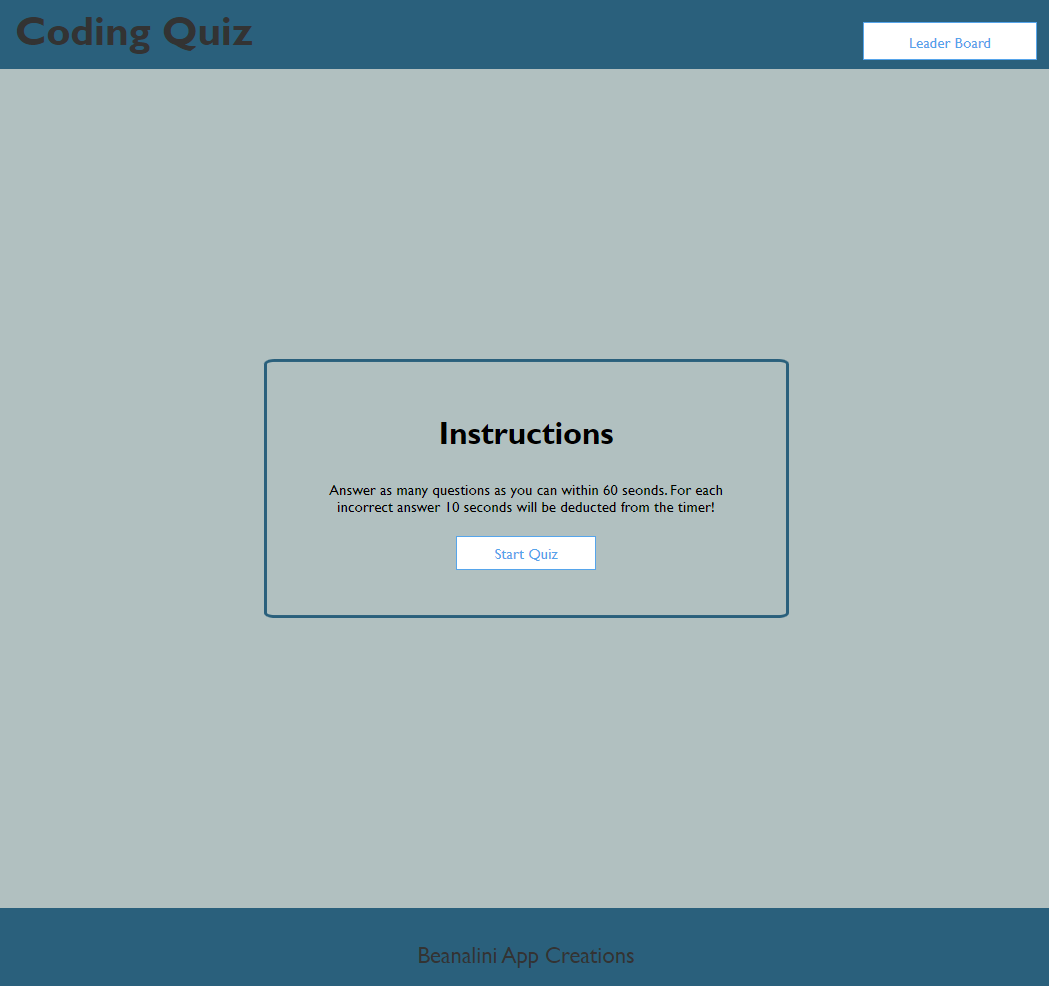
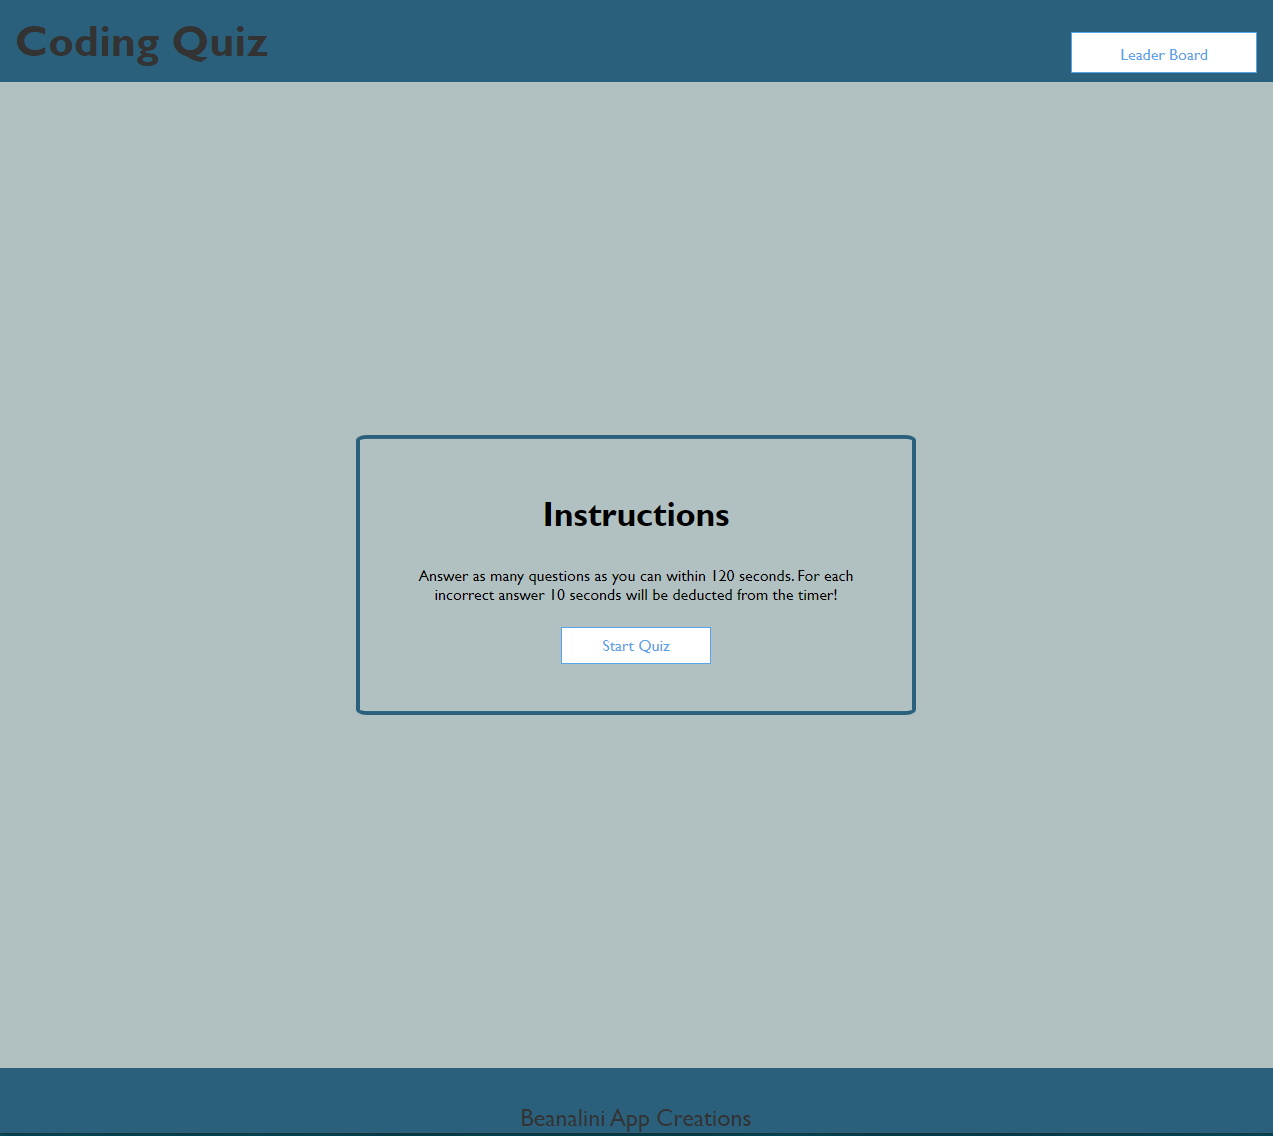
modified readme file

diff --git a/README.md b/README.md
@@ -52,34 +52,48 @@ THEN I can save my initials and my score
 ## Approach 
 ---
 Code Quiz app  functionality implemented in JavaScript, HTML and CSS:
-
+- a timer has been implemented to count down to zero
+- questions are displayed dynamically
+- An array of ojects has been used to store the questions  
+- A copy of the array of objects is made so that questions are displayed randomly each timer a user plays a game.
+  - questions are removed from the coied array of objects to elimate repition.
+- conditional statements have been used to test that the deducted time for each in correcct answer does not go below zero, in this case the game would end.
+- conditonal statements test for the timer reaching zero and/or all questions having been answered
+- This app uses linked HTML pages, local storage has been used to enable user scores and times to be used between the 'quiz' and 'quiz end' HTML pages.
+- Local storage has been used to add user intials, score and timing information to a leader board
 
 
  
 ## Usage
 ---
-
+- Open the <a href="https://beanalini.github.io/showTime/">Coding Quiz App.</a>
+- In the 'Coding Quiz' home page there are two buttons that link to different pages:
+  - the 'Start Quiz' button begins the quiz.  The user has 120 seconds to answer as many questiona as possible, 10 seconds will be deducted from the clock for each wrong answer!
+  - the 'Leader Board' button links to the highest scores page which lists the last saved initals, number of correct answers and the time taken.
+- After clicking the 'start Quiz' button,   a question and four possible answer options will be displayed. Click on the preferered answer - incorrect or correct will be displayed below the set of questions.
+- When the timer runs out, or all questions have been answered, the screen will transistion to the 'End of Quiz' page, the user score and time taken are displayed.  There is also an option to save a score to the leader board by pressing the 'save' button. Press the 'Quiz Home' button to return to the 'Coding Quiz' home page.
+- View the leaderboard score from the Coding Quiz homepage. 
 
 ##  Code Quiz Screen Shots
 ---
 
 Code Quiz Landing Page
 
-![quiz app start page](assets/images/quiz-landing.PNG)
+![quiz app start page](assets/images/quiz-landing-page.PNG)
 
 
-Quiz Page with muliple choice questions - showing answer slection correct
+Quiz Page with muliple choice questions - showing answer selection correct.
 
 
 ![question page](assets/images/Question-answer.PNG)
 
-Quiz over page with option to save score to the leader board
+Quiz over page with option to save user initials and score details to the leader board.
 
 
 ![question page](assets/images/quiz-end.PNG)
 
 
-Leader board page showing current high score
+Leader board page showing current high score.
 
 ![question page](assets/images/leader-board.PNG)
 ## Deployed Website
